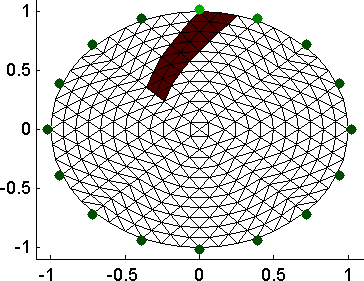
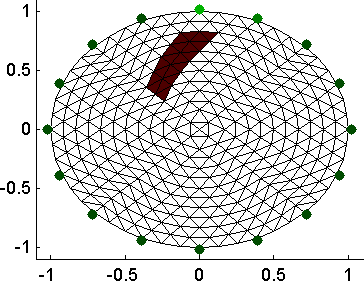
better examples
git-svn-id: svn+ssh://svn.code.sf.net/p/eidors3d/code/trunk@1193 82006732-fb7e-4a22-9f28-86a212cce563

Changed region(s): [[0.4835, 0.0285, 0.6648, 0.1139]]

diff --git a/htdocs/tutorial/dual_model/dual_model02.m b/htdocs/tutorial/dual_model/dual_model02.m
@@ -1,4 +1,4 @@
-% Simulate data $Id: dual_model02.m,v 1.3 2008-03-16 10:35:23 aadler Exp $
+% Simulate data $Id: dual_model02.m,v 1.4 2008-03-16 11:06:26 aadler Exp $
 
 % create base model
 mdl_base=mk_common_model('a2c0',16);
@@ -10,21 +10,25 @@ nodes= mdl_base.fwd_model.nodes;
 e= size(elems,1);
 
 
-for model = 1:2
+for model = 1:3
    if model==1
 % Model 1: coarse==fine. each elem has a parameter
       params= 1:e; 
-   else
-% Model 2: outer two layers have only one parameter, 
+   elseif model==2
+% Model 2: coarse model, inner circle has one parameter
+      params= [1,1,1,1, 2:e-3];
+   elseif model==3
+% Model 3: coarse model, top left slice has one parameter
       params= 1:e;
-      params(params>36)= 37;
+      params([4,8,15:16,23:24,34:36])= 0;
+      [jnk1,jnk2,params]= unique(params);
    end
 
 % Create inverse_model
    imdl(model)= mdl_base;
    imdl(model).fwd_model.coarse2fine = sparse(1:e,params,1,e,max(params));
 
-   subplot(2,2, model)
+   subplot(2,3, model)
    show_fem(imdl(model).fwd_model);
 
 % Show parameter numbers

diff --git a/htdocs/tutorial/dual_model/dual_model03.m b/htdocs/tutorial/dual_model/dual_model03.m
@@ -1,13 +1,9 @@
-% Simulate data $Id: dual_model03.m,v 1.1 2008-03-16 01:33:12 aadler Exp $
+% Simulate data $Id: dual_model03.m,v 1.2 2008-03-16 11:06:27 aadler Exp $
 
-img1= inv_solve(imdl(1), vh, vi);
-subplot(221)
-show_fem(img1);
-
-img2= inv_solve(imdl(2), vh, vi);
-c2f= img2.fwd_model.coarse2fine;
-img2.elem_data= c2f * img2.elem_data;
-subplot(222)
-show_fem(img2);
+for model= 1:3
+   img= inv_solve(imdl(model), vh, vi);
+   subplot(2,3,model)
+   show_fem(img);
+end
 
 print -r125 -dpng dual_model03a.png;

diff --git a/htdocs/tutorial/dual_model/dual_model01.m b/htdocs/tutorial/dual_model/dual_model01.m
@@ -1,8 +1,8 @@
-% Simulate data $Id: dual_model01.m,v 1.1 2008-03-16 00:12:52 aadler Exp $
+% Simulate data $Id: dual_model01.m,v 1.2 2008-03-16 11:06:26 aadler Exp $
 imdl= mk_common_model('c2c2',16);
 img=calc_jacobian_bkgnd(imdl);
 vh=fwd_solve(img);
-idx=[535,490,446,405,365,328,292,259,227,198,170,145,121];
+idx=[365,328,292,259,227,198,170,145,121];
 img.elem_data([idx,idx+1,101,81])=1.1;
 vi=fwd_solve(img);
 
